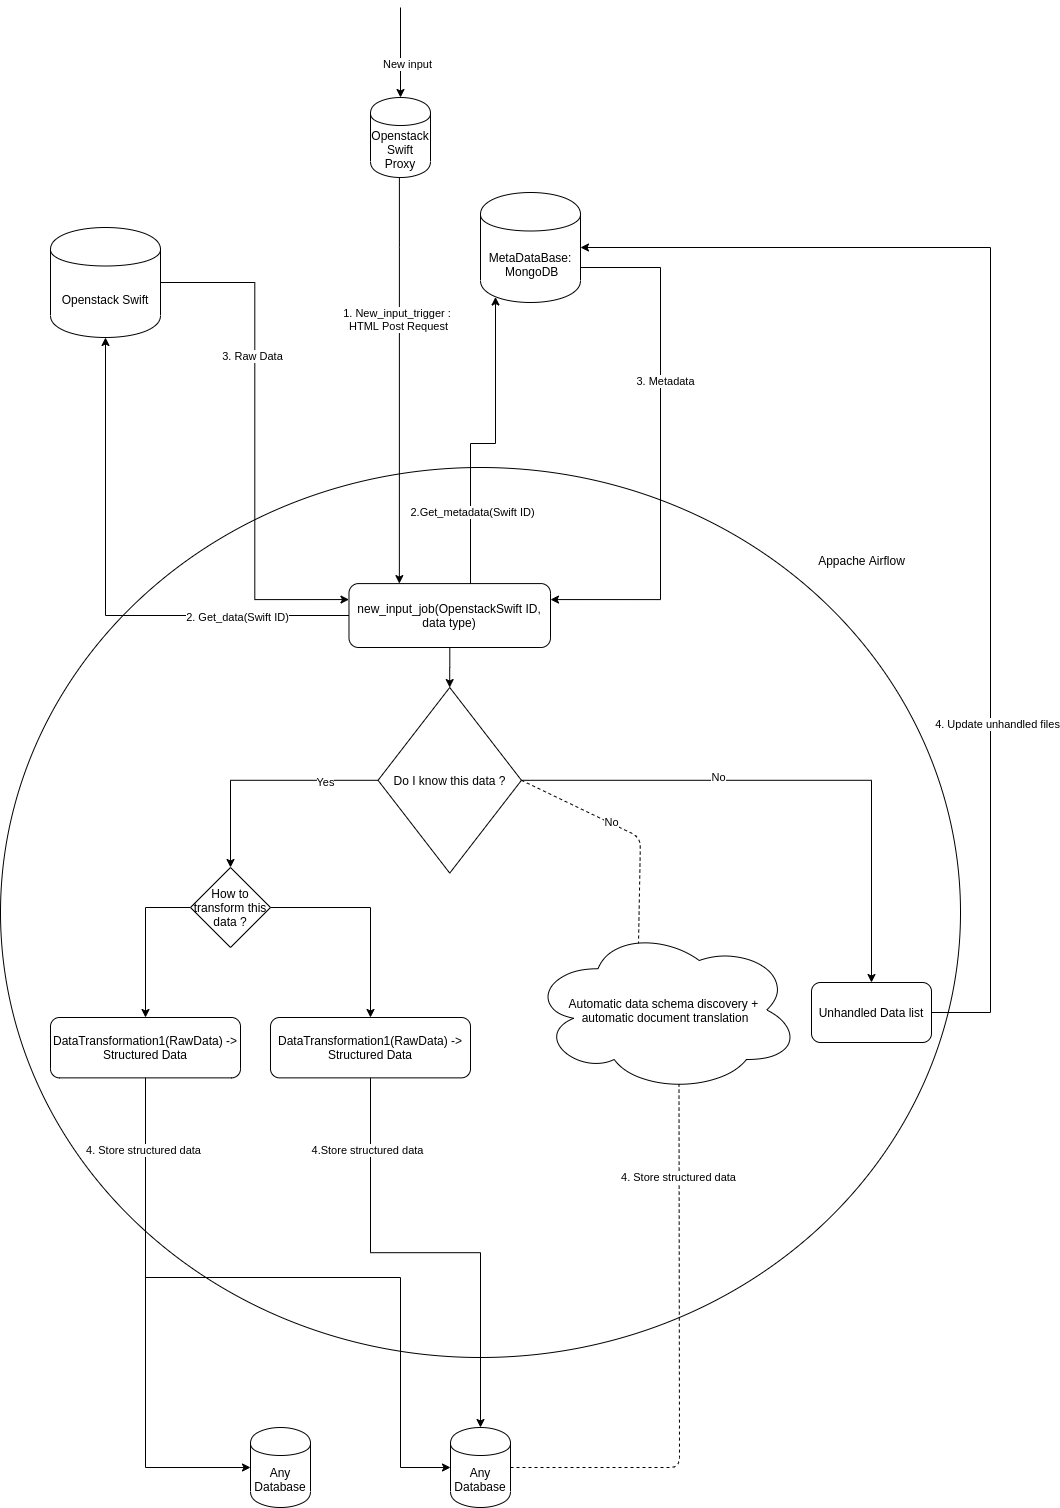
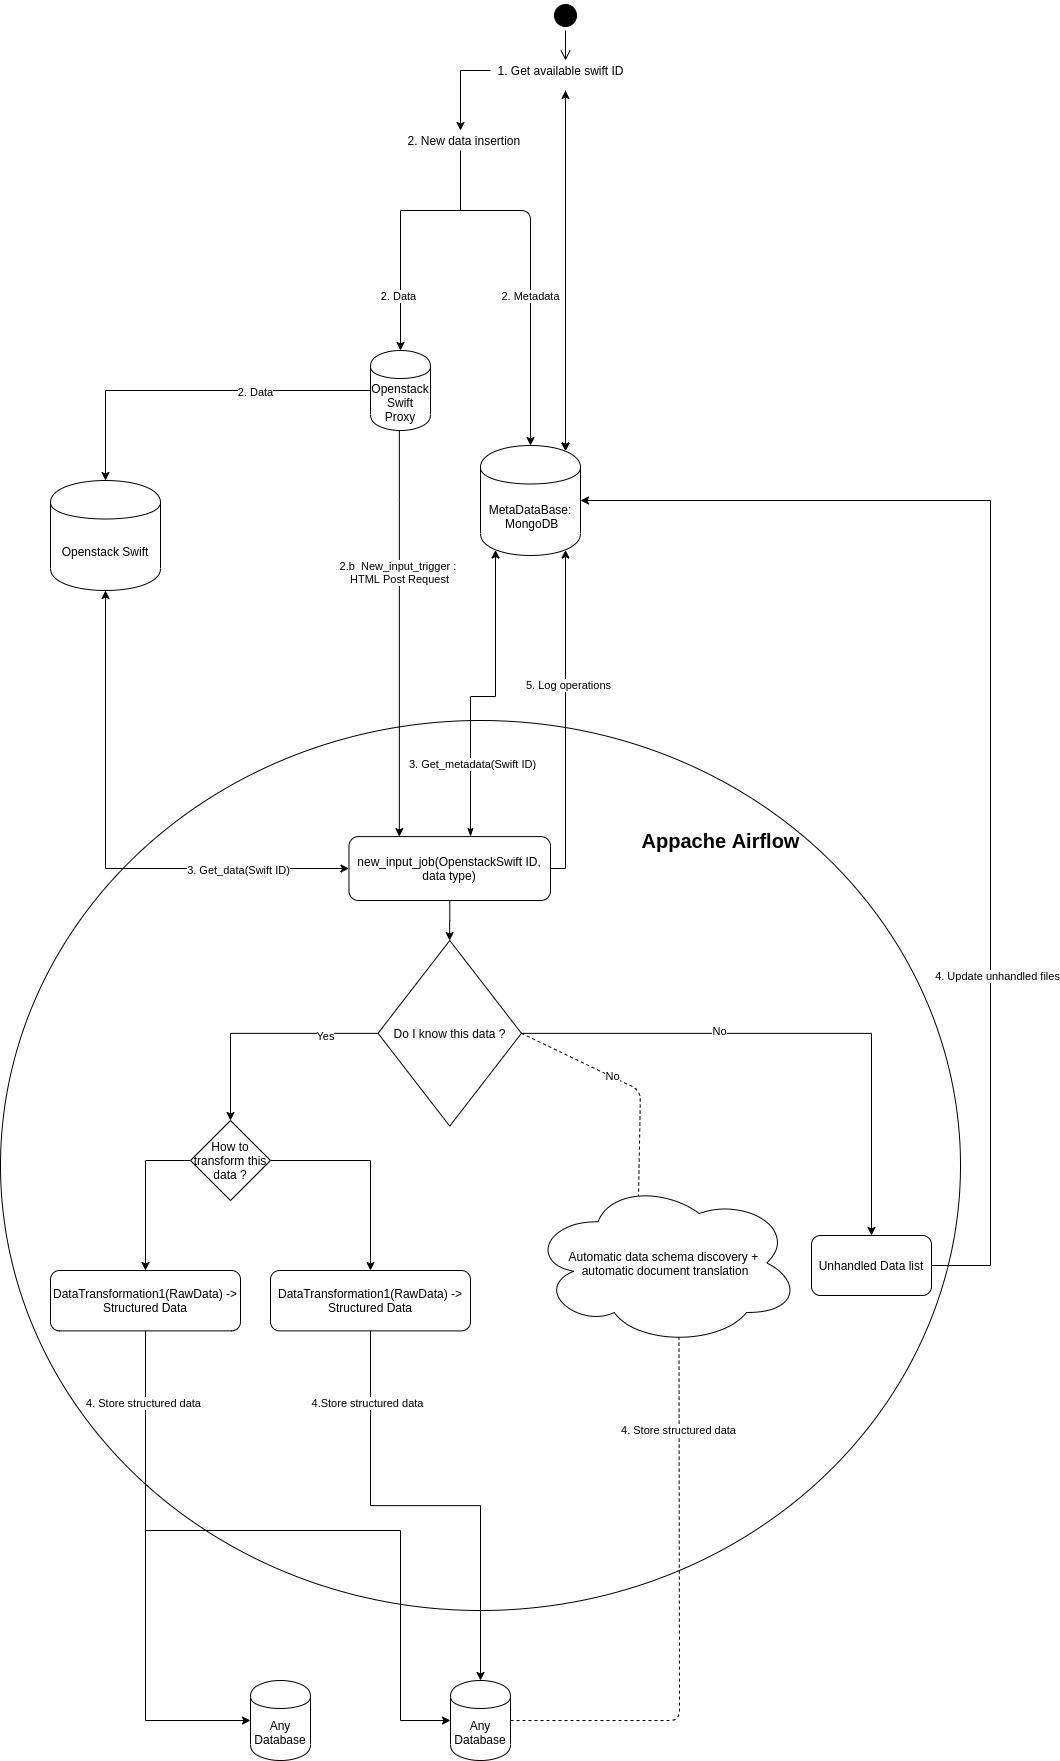
Update airflow config DAG : creation through JSON file
Network diagram add

diff --git a/apache_airflow/dags/dag1.py b/apache_airflow/dags/dag1.py
@@ -10,14 +10,16 @@ from airflow.utils.helpers import chain
 from time import sleep
 from pymongo import MongoClient
 import datetime
+import os
 
+cwd = os.path.dirname(os.path.abspath(__file__))
 import yaml
+
 # import configurations of different services needed :
 # IP and port of Swift, MongoDB, etc..
-with open("config.yml") as config:
+with open(cwd + "/config.yml", "r") as config:
     y = yaml.safe_load(config)
 globals().update(y)
-
 
 # TODO : Restructure DAG architecture
 
@@ -66,7 +68,7 @@ def content_neo4j_node_creation(**kwargs):
     driver.insert_image(doc)
 
 
-def from_mongodb_to_influx(token = None, nb_retry = 10, **kwargs):
+def from_mongodb_to_influx(token=None, nb_retry=10, **kwargs):
     """
     Take a mongodb Json like, parse it to find measurement, tags, fields and timestamp
     and create a point to insert into Influxdb.
@@ -82,7 +84,7 @@ def from_mongodb_to_influx(token = None, nb_retry = 10, **kwargs):
     import swiftclient
     import json
     # InfluxDB Token to access
-    if token is None :
+    if token is None:
[1 lines of base64/hex data omitted]
     integrator = InfluxIntegrator(influx_host=globals()["GOLD_INFLUX_IP"],
                                   influx_port=globals()["INFLUXDB_PORT"],
@@ -124,8 +126,8 @@ def from_mongodb_to_influx(token = None, nb_retry = 10, **kwargs):
         print(json.dumps(influxdb_doc, indent=4, sort_keys=True))
         try:
             integrator.write(bucket=metadata_doc["swift_container"],
-                             time = influxdb_doc["time"],
-                             measurement = influxdb_doc["measurement"],
+                             time=influxdb_doc["time"],
+                             measurement=influxdb_doc["measurement"],
                              field_list=influxdb_doc["fields"],
                              tag_list=influxdb_doc["tags"])
         except Exception as e:
@@ -133,13 +135,14 @@ def from_mongodb_to_influx(token = None, nb_retry = 10, **kwargs):
 
         return
 
-def not_handled(**kwargs):
+
+def not_handled_call(**kwargs):
     raise NotImplementedError(
         "This data type (:" + kwargs["dag_run"].conf["content_type"] +
         ")is not handled by any workflow.")
 
 
-def Not_implemented_json(**kwargs):
+def Not_implemented_json_call(**kwargs):
     raise NotImplementedError(
         "This json structure can't be handled.")
 
@@ -168,13 +171,13 @@ def check_type(**kwargs):
     print(metadata_doc)
     kwargs["ti"].xcom_push(key="metadata_doc", value=metadata_doc)
 
-
     if metadata_doc["content_type"] in task_dict:
-        if group in task_dict[metadata_doc["content_type"]] :
+        if group in task_dict[metadata_doc["content_type"]]:
             return task_dict[metadata_doc["content_type"]][group][0].task_id
-        else :
-            return task_dict[metadata_doc["content_type"]]["default"][0].task_id
-    else :
+        else:
+            return task_dict[metadata_doc["content_type"]]["default"][
+                0].task_id
+    else:
         if group in task_dict[metadata_doc["not_handled"]]:
             return task_dict[metadata_doc["not_handled"]][group][0].task_id
         else:
@@ -272,93 +275,106 @@ join = DummyOperator(
 
     dag=dag,
 )
+import json
+
+
+def construct_operator(**kwargs):
+    # TODO : Raise error
+    # TODO : Handle more parameters
+    # TODO : Handle start_date
+    for arg in kwargs:
+        if kwargs[arg] in callable_dict:
+            kwargs[arg] = callable_dict[kwargs[arg]]
+    return kwargs["operator"](start_date=days_ago(0), **kwargs)
+
+
 task_dict = {
-        "image/png": {
-            "default": [
-                PythonOperator(
-                    # TODO : Find a task_id naming solution
-                    task_id="Object_in_png_in_neo4j",
-                    provide_context=True,
-                    python_callable=content_neo4j_node_creation,
-                    start_date=days_ago(2),
-                    on_failure_callback=failed_data_processing,
-                    on_success_callback=successful_data_processing
-                )
-            ],
-            "mygates": [
-                PythonOperator(
-                    # TODO : Find a task_id naming solution
-                    task_id="Mygates_object_in_png_in_neo4j",
-                    provide_context=True,
-                    python_callable=content_neo4j_node_creation,
-                    start_date=days_ago(2),
-                    on_failure_callback=failed_data_processing,
-                    on_success_callback=successful_data_processing
-                )
-            ]
-        },
-        "image/jpeg": {
-            "default": [
-                PythonOperator(
-                    # TODO : Find a task_id naming solution
-                    task_id="Object_in_jpeg_in_neo4j",
-                    provide_context=True,
-                    python_callable=content_neo4j_node_creation,
-                    start_date=days_ago(2),
-                    on_failure_callback=failed_data_processing,
-                    on_success_callback=successful_data_processing
-                )
-            ],
-            "mygates": [
-                PythonOperator(
-                    # TODO : Find a task_id naming solution
-                    task_id="Mygates_object_in_jpeg_in_neo4j",
-                    provide_context=True,
-                    python_callable=content_neo4j_node_creation,
-                    start_date=days_ago(2),
-                    on_failure_callback=failed_data_processing,
-                    on_success_callback=successful_data_processing
-                )
-            ]
-        },
-        "application/json": {
-            "default": [
-                PythonOperator(
-                    # TODO : Find a task_id naming solution
-                    task_id="Not_implemented_json",
-                    provide_context=True,
-                    python_callable=Not_implemented_json,
-                    start_date=days_ago(2),
-                    on_failure_callback=failed_data_processing,
-                    on_success_callback=successful_data_processing
-                )
-            ],
-            "neocampus": [
-                PythonOperator(
-                    # TODO : Find a task_id naming solution
-                    task_id="Json_log_to_timeserie_influxdb",
-                    provide_context=True,
-                    python_callable=from_mongodb_to_influx,
-                    start_date=days_ago(2),
-                    on_failure_callback=failed_data_processing,
-                    on_success_callback=successful_data_processing
-                )
-            ]
-        },
-        "not_handled": {
-            "default": [
-                PythonOperator(
-                    # TODO : Find a task_id naming solution
-                    task_id="Not_handled",
-                    provide_context=True,
-                    python_callable=not_handled,
-                    start_date=days_ago(2),
-                    on_failure_callback=failed_data_processing,
-                    on_success_callback=successful_data_processing
-                )
-            ]
-        }
+    "image/png": {
+        "default": [
+            PythonOperator(
+                # TODO : Find a task_id naming solution
+                task_id="Object_in_png_in_neo4j",
+                provide_context=True,
+                python_callable=content_neo4j_node_creation,
+                start_date=days_ago(2),
+                on_failure_callback=failed_data_processing,
+                on_success_callback=successful_data_processing
+            )
+        ],
+        "mygates": [
+            PythonOperator(
+                # TODO : Find a task_id naming solution
+                task_id="Mygates_object_in_png_in_neo4j",
+                provide_context=True,
+                python_callable=content_neo4j_node_creation,
+                start_date=days_ago(2),
+                on_failure_callback=failed_data_processing,
+                on_success_callback=successful_data_processing
+            )
+        ]
+    },
+    "image/jpeg": {
+        "default": [
+            PythonOperator(
+                # TODO : Find a task_id naming solution
+                task_id="Object_in_jpeg_in_neo4j",
+                provide_context=True,
+                python_callable=content_neo4j_node_creation,
+                start_date=days_ago(2),
+                on_failure_callback=failed_data_processing,
+                on_success_callback=successful_data_processing
+            )
+        ],
+        "mygates": [
+            PythonOperator(
+                # TODO : Find a task_id naming solution
+                task_id="Mygates_object_in_jpeg_in_neo4j",
+                provide_context=True,
+                python_callable=content_neo4j_node_creation,
+                start_date=days_ago(2),
+                on_failure_callback=failed_data_processing,
+                on_success_callback=successful_data_processing
+            )
+        ]
+    },
+    "application/json": {
+        "default": [
+            PythonOperator(
+                # TODO : Find a task_id naming solution
+                task_id="Not_implemented_json",
+                provide_context=True,
+                python_callable=Not_implemented_json_call,
+                start_date=days_ago(2),
+                on_failure_callback=failed_data_processing,
+                on_success_callback=successful_data_processing
+            )
+        ],
+        "neocampus": [
+            PythonOperator(
+                # TODO : Find a task_id naming solution
+                task_id="Json_log_to_timeserie_influxdb",
+                provide_context=True,
+                python_callable=from_mongodb_to_influx,
+                start_date=days_ago(2),
+                on_failure_callback=failed_data_processing,
+                on_success_callback=successful_data_processing
+            )
+        ]
+    },
+    "not_handled": {
+        "default": [
+            PythonOperator(
+                # TODO : Find a task_id naming solution
+                task_id="Not_handled",
+                provide_context=True,
+                python_callable=not_handled_call,
+                start_date=days_ago(2),
+                on_failure_callback=failed_data_processing,
+                on_success_callback=successful_data_processing
+            )
+        ]
     }
+}
 # task_dict = {
 #     "png_data": {
 #         "default": [
@@ -446,18 +462,31 @@ task_dict = {
 #         ]
 #     }
 # }
-
+with open(cwd + "/dag1.json", "r") as f:
+    distros_dict = json.load(f)
 run_this_first >> branch_op
 
+callable_dict = {"content_neo4j_node_creation": content_neo4j_node_creation,
+                 "from_mongodb_to_influx": from_mongodb_to_influx,
+                 "not_handled_call": not_handled_call,
+                 "Not_implemented_json_call": Not_implemented_json_call,
+                 "check_type": check_type,
+                 "failed_data_processing": failed_data_processing,
+                 "successful_data_processing": successful_data_processing,
+                 "construct_operator": construct_operator,
+                 "PythonOperator": PythonOperator,
+                 "DummyOperator":DummyOperator,
+                 "BranchPythonOperator":BranchPythonOperator
+                 }
 # TODO : recursive funct to create the pipeline (for n sublevel in dict)
 
 pipeline = []
-for data_type in task_dict:
+for data_type in distros_dict:
 
-    for owner_group in task_dict[data_type]:
+    for owner_group in distros_dict[data_type]:
         sub_pipe = []
-        for task in task_dict[data_type][owner_group]:
-            sub_pipe.append(task)
+        for task in distros_dict[data_type][owner_group]:
+            sub_pipe.append(construct_operator(**task))
         pipeline.append([*sub_pipe, ])
 
 for list in pipeline:

diff --git a/apache_airflow/dags/check_datas.py b/apache_airflow/dags/check_datas.py
@@ -9,11 +9,14 @@ from airflow.operators.dummy_operator import DummyOperator
 import logging
 from datetime import datetime
 
-
+import os
+# The path of the file not the python binary
+cwd = os.path.dirname(os.path.abspath(__file__))
 import yaml
+
 # import configurations of different services needed :
 # IP and port of Swift, MongoDB, etc..
-with open("config.yml") as config:
+with open(cwd + "/config.yml") as config:
     y = yaml.safe_load(config)
 globals().update(y)
 

diff --git a/README.md b/README.md
@@ -16,7 +16,9 @@ Neo4J ports :
 
 InfluxDB port : 
 - 8086
+## Airflow json DAG implementation : 
 
+Dont name your task the same name of the callable : it will lead to an error
 ## How to insert data : 
 
 To develop a tool to insert data in the datalake, you have to :
@@ -77,6 +79,10 @@ For each data in this list, it will trigger a "new_input" dag to process this da
 
 ### Data integration activity diagram (Apache Airflow) : 
 
+![alt text](git_image/network_diagram.png)
+
+### Network diagram for the implementation (on OSIRIM) : 
+
 ![alt text](git_image/Sequence_Dataintegration.png)
 
 # Composition and TODO part: 
@@ -101,6 +107,7 @@ The architecture is defined by big 3 parts :
     - [x] MongoDb database for metadata
     - [x] Trigger for new input to launch a new Airflow job
         - [x] Create middleware for swift proxy (Webhook trigger to launch Airflow jobs)
+        - [ ] Use X-Webhook in Swift (secure way)
         - [ ] Optimizations 
 - [x]  The "Work zone" : Every jobs to transforms data
     - [x] Airflow deployment (docker image) 
@@ -112,6 +119,7 @@ The architecture is defined by big 3 parts :
     - [x] Airflow job creation / configuration 
         - [x] Handle hook from Swift middleware (Webhook)
         - [x] Set up jobs 
+        - [ ] Find a proper way to instantiate dag from JSON file (day_ago function)
         - [ ] Handle big file (split big file reading + processing if possible)
 - [x] The "gold" zone : database to store formatted / valuable data
     - [ ] Relational database (default)
@@ -195,18 +203,22 @@ For swift :
     - Change the test users 
     - Set up a Keystone service to handle users and authentications
     - Use LDAP (maybe possible ?)
+- Size up storage
 For MongoDB (metadatabase) :
-
+- Change storage path
 For Airflow : 
 - Executor : use Celery executor for a better parallisation 
 - Handle exceptions more specifically 
 For Neo4J (Gold zone) :
 - User "neo4j" / mdp "test"
+- Change storage path
 For InfluxDB (Gold zone) :
 - Admin user (user : datalake_admin / password : osirim_datalake_admin)
 - Create users
+- Change storage path
 For MongoDB (Gold Zone) : 
 - Listening port  27017 : it will conflicts with the MongoDB metadatabase 
+- Change storage path
 
 
 
